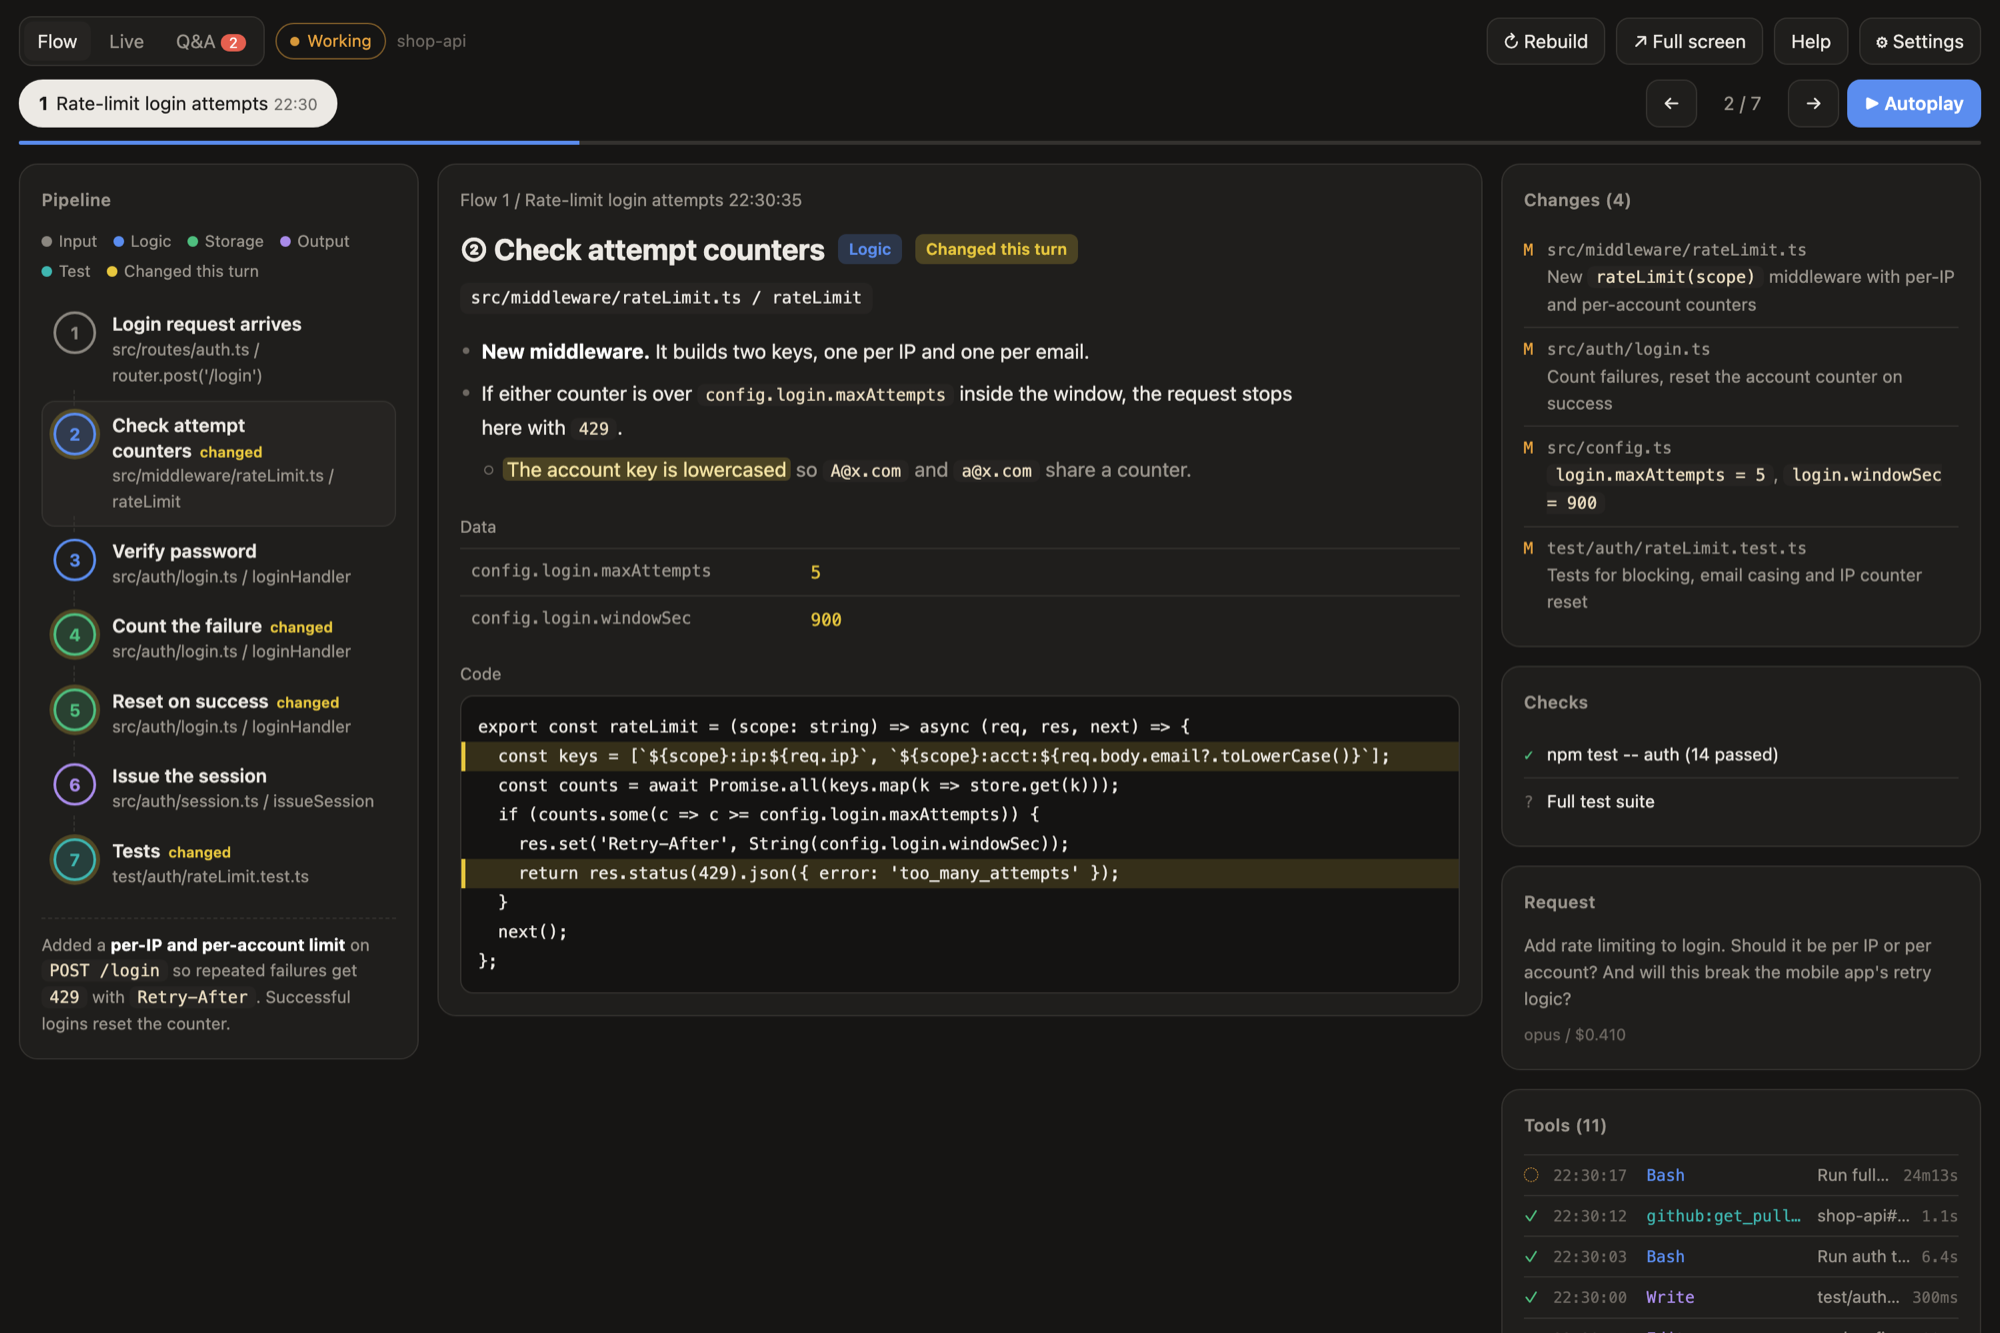
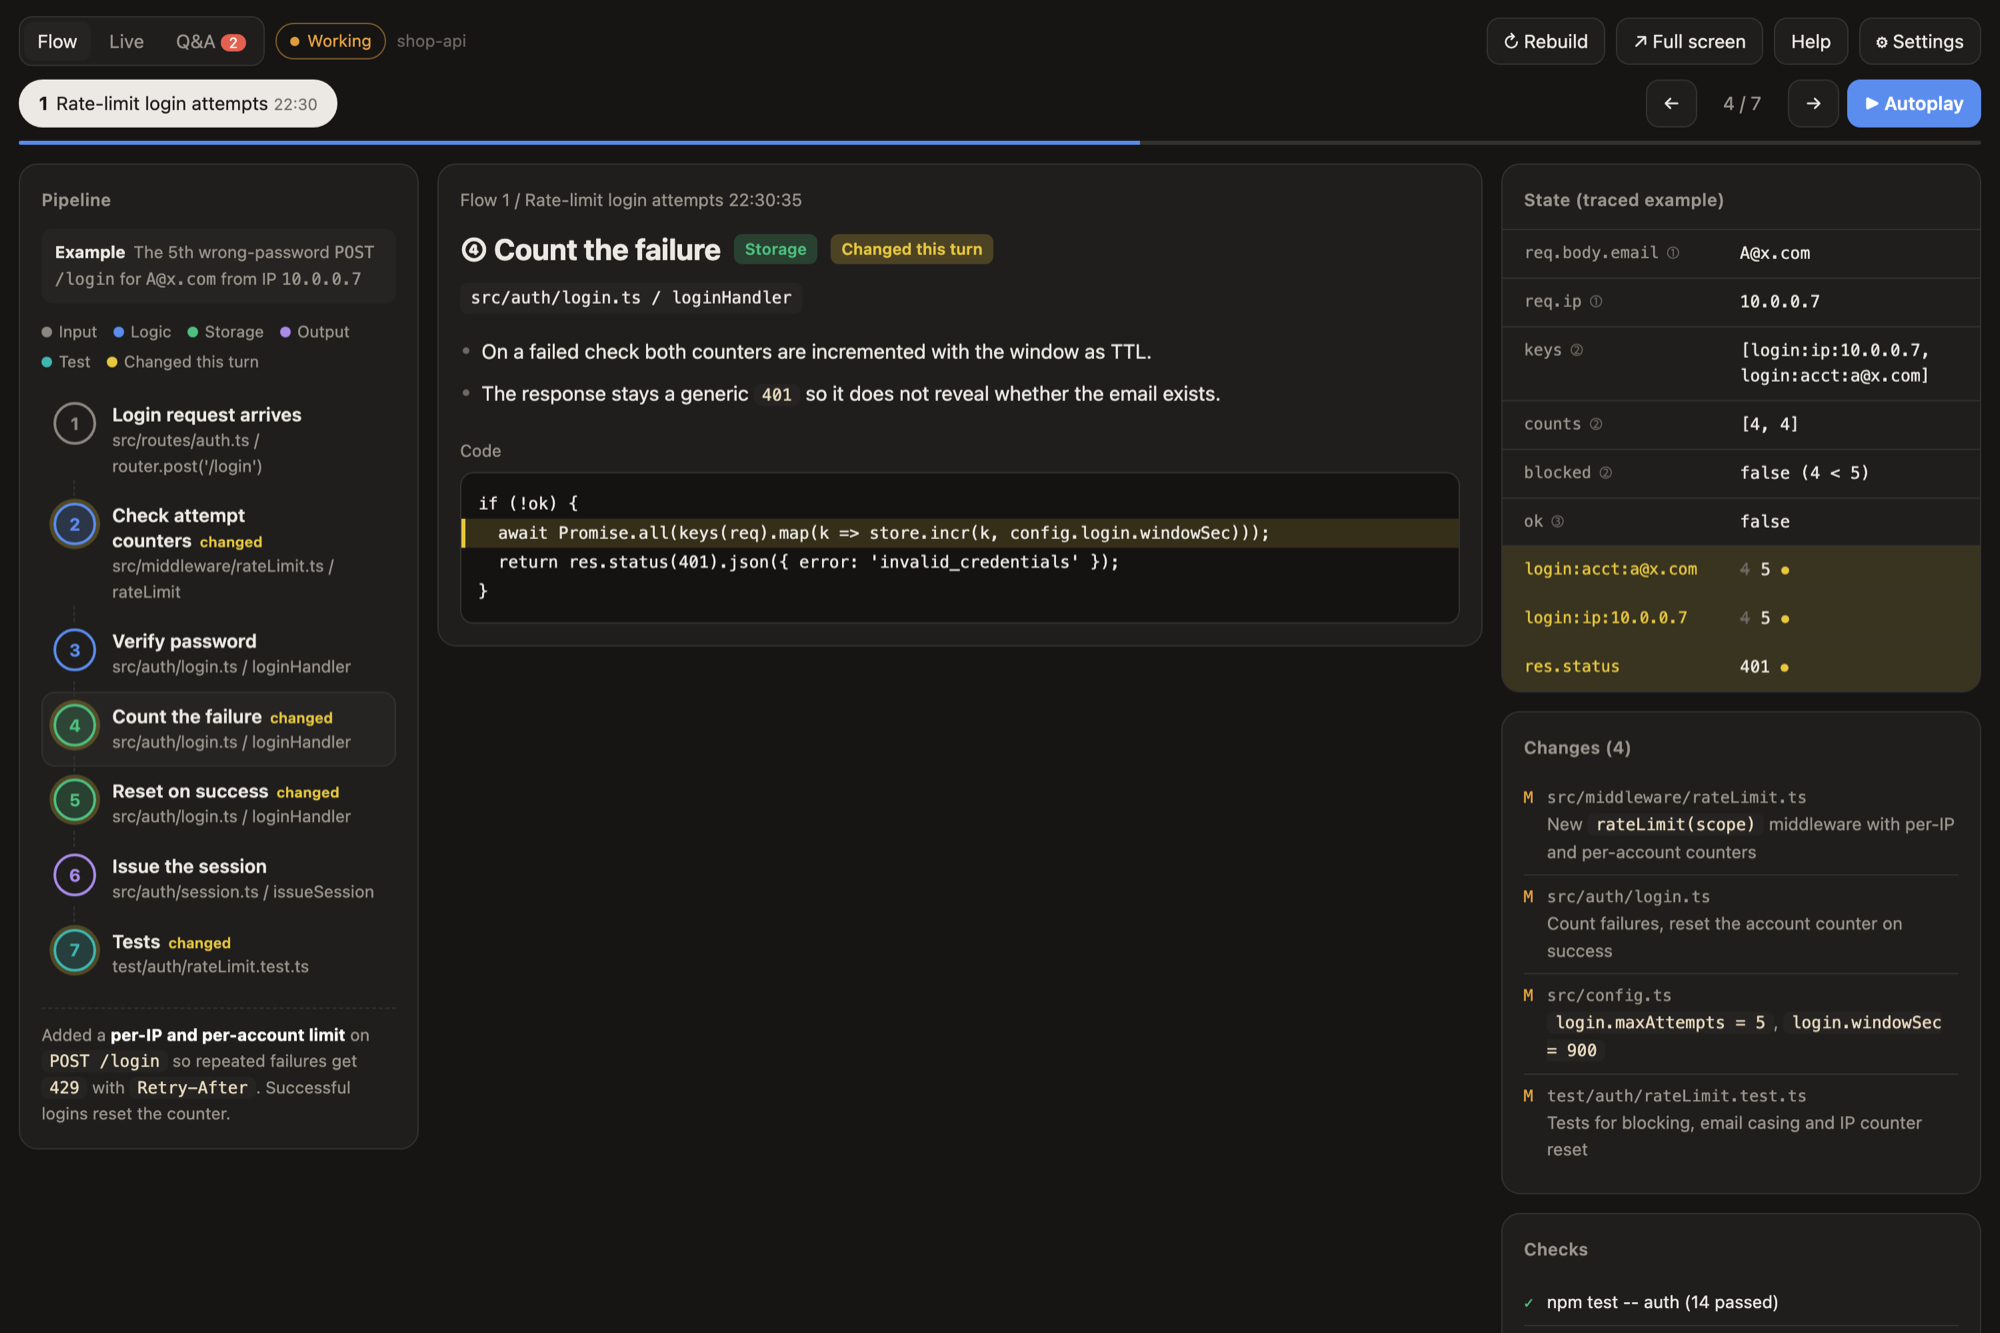
Flow: trace one concrete example through every step and show its state per step
- Schema asks for an example and per-step state values with consistent names
- State card replays values up to the current step and highlights this step's changes
- Errors from panel buttons show as a short notice instead of replacing the button label

Claude-Session: https://claude.ai/code/session_0121ovcFUkEhWW55jjw4PbtV

diff --git a/app.html b/app.html
@@ -91,6 +91,19 @@ table.data { width: 100%; border-collapse: collapse; font-size: 13px; }
 table.data td { border-top: 1px solid var(--line); padding: 7px 8px; vertical-align: top; overflow-wrap: anywhere; }
 table.data td:first-child { color: var(--muted); width: 34%; }
 .before { text-decoration: line-through; color: var(--faint); margin-right: 8px; }
+.example { background: var(--panel-2); border-radius: 8px; padding: 8px 10px; margin-bottom: 12px; font-size: 12.5px; color: var(--muted); overflow-wrap: anywhere; }
+.example b { color: var(--text); margin-right: 6px; }
+.state { padding: 0; overflow: hidden; }
+.state h3 { padding: 16px 16px 0; }
+.state table { width: 100%; border-collapse: collapse; font-size: 13px; }
+.state td { border-top: 1px solid var(--line); padding: 8px 16px; vertical-align: top; overflow-wrap: anywhere; }
+.state td:first-child { color: var(--muted); width: 1%; white-space: nowrap; font-family: var(--mono); font-size: 12px; }
+@media (max-width: 1250px) { .state td:first-child { white-space: normal; width: 40%; } }
+.state td:last-child { font-family: var(--mono); font-size: 12.5px; }
+.state tr.now { background: rgba(231,199,62,.13); }
+.state tr.now td:first-child { color: var(--hl-line); }
+.state tr.now td:last-child::after { content: ""; display: inline-block; width: 6px; height: 6px; border-radius: 50%; background: var(--hl-line); margin-left: 8px; vertical-align: middle; }
+.state .step-no { color: var(--faint); font-size: 11px; margin-left: 6px; font-family: inherit; }
 .after { color: var(--hl-line); font-family: var(--mono); }
 
 .rows { display: flex; flex-direction: column; }
@@ -160,6 +173,8 @@ kbd { border: 1px solid var(--line); border-bottom-width: 2px; border-radius: 5p
 .keys .card:hover { border-color: var(--faint); }
 .keys .path { color: var(--faint); margin: 4px 0 8px; overflow-wrap: anywhere; }
 .keys .counts { color: var(--muted); font-size: 13px; }
+.toast { position: fixed; left: 50%; bottom: 18px; transform: translateX(-50%); background: var(--panel-2); border: 1px solid var(--line); border-radius: 10px; padding: 8px 14px; font-size: 13px; z-index: 20; max-width: calc(100% - 32px); }
+.toast.err { border-color: rgba(229,96,79,.6); color: #f2b3aa; }
 .space-between { display: flex; justify-content: space-between; gap: 8px; }
 </style>
 </head>
@@ -181,6 +196,7 @@ const EDIT_TOOLS = new Set(["Edit", "Write", "MultiEdit", "NotebookEdit"]);
 const QA_PAGE = 10;
 const POLL_MS = 1000;
 const AUTOPLAY_MS = 3500;
+const TOAST_MS = 4000;
 const RECENT_TOUCH_MS = 30000;
 const MIN_HIGHLIGHT = 3;
 const TOOLS_IN_FLOW = 12;
@@ -209,7 +225,7 @@ const S = {
   state: null, flows: [], pending: null, qa: { turns: [], pending: false }, flowCache: {}, flowId: null,
   seenFlows: null, wasBusy: false, playing: null, error: null, sig: null, panes: null,
   qaPage: 1, qaOnlyOpen: false, qaArchived: false, qaRefs: [], busyIds: new Set(),
-  config: null, scope: SCOPE.GLOBAL, settingsMsg: null, returnFocus: null, polling: false,
+  config: null, scope: SCOPE.GLOBAL, settingsMsg: null, returnFocus: null, polling: false, toast: null,
 };
 const touch = () => { S.lastTouch = Date.now(); };
 const recentlyTouched = () => Date.now() - S.lastTouch < RECENT_TOUCH_MS;
@@ -323,7 +339,8 @@ function render() {
   const active = document.activeElement;
   const focusKey = active && active.dataset ? active.dataset.focus : null;
   const y = window.scrollY;
-  app.innerHTML = (KEY ? renderPanel() : renderIndex()) + renderDialog();
+  app.innerHTML = (KEY ? renderPanel() : renderIndex()) + renderDialog()
+    + (S.toast ? `<div class="toast ${S.toast.error ? "err" : ""}" role="status">${esc(S.toast.text)}</div>` : "");
   window.scrollTo(0, y);
   const again = focusKey && app.querySelector(`[data-focus="${focusKey}"]`);
   if (again) again.focus();
@@ -389,6 +406,7 @@ function renderFlow() {
     <button class="btn primary" data-act="play">${S.playing ? t("pause") : t("play")}</button></div></div>
     <div class="progress"><i style="width:${((i + 1) / steps.length) * 100}%"></i></div>`;
   const pipeline = `<div class="card"><h3>${t("pipeline")}</h3>
+    ${flow.example ? `<div class="example"><b>${t("example_label")}</b>${inline(flow.example)}</div>` : ""}
     <div class="legend">${kindsUsed.map(k => `<span style="--c:${kindColor(k)}">${kindLabel(k)}</span>`).join("")}<span style="--c:var(--hl-line)">${t("changed_this")}</span></div>
     <ol class="steps">${steps.map((s, n) => `<li><button class="step ${n === i ? "on" : ""} ${s.changed ? "changed" : ""}" data-step="${n}" style="--c:${kindColor(s.kind)}" aria-current="${n === i}">
       <span class="num">${n + 1}</span><span><span class="t">${esc(s.title)}${s.changed ? `<span class="chg">${t("changed_short")}</span>` : ""}</span><span class="l">${esc(s.location)}</span></span></button></li>`).join("")}</ol>
@@ -396,17 +414,16 @@ function renderFlow() {
   const needles = list(step.highlight).map(h => String(h).trim()).filter(h => h.length >= MIN_HIGHLIGHT);
   const code = step.code ? `<div class="label">${t("code")}</div><pre class="code">${String(step.code).replace(/\n$/, "").split("\n")
     .map(line => `<span class="${needles.some(h => line.includes(h)) ? "hl" : ""}">${esc(line) || " "}</span>`).join("")}</pre>` : "";
-  const data = list(step.data).length ? `<div class="label">${t("data")}</div><table class="data">${list(step.data).map(d => `<tr><td class="mono">${esc(d.name)}</td>
-    <td>${d.before ? `<span class="before mono">${esc(d.before)}</span>` : ""}<span class="after">${esc(d.after)}</span></td></tr>`).join("")}</table>` : "";
   const flowNumber = S.flows.length - S.flows.findIndex(f => f.id === S.flowId);
   const detail = `<div class="card">
     <div class="ctx">${t("flow_n", flowNumber)} / ${esc(flow.title)}  ${clock(rec.ts)}</div>
     <div class="h"><h2>${circled(i + 1)} ${esc(step.title)}</h2><span class="badge" style="--c:${kindColor(step.kind)}">${kindLabel(step.kind)}</span>
     ${step.changed ? `<span class="badge" style="--c:var(--hl-line)">${t("changed_this")}</span>` : ""}</div>
-    <code class="loc">${esc(step.location)}</code>${prose(step.explanation)}${data}${code}</div>`;
+    <code class="loc">${esc(step.location)}</code>${prose(step.explanation)}${code}</div>`;
   const checks = list(flow.checks);
   const cost = Number(rec.cost);
   const side = `<div class="side">
+    ${stateCard(steps, i)}
     <div class="card"><h3>${t("changes", list(flow.changes).length)}</h3><div class="rows">${list(flow.changes).map(c => `<div class="row"><span class="k M">M</span>
       <div class="v"><div class="path">${esc(c.file)}</div>${inline(c.what)}</div></div>`).join("") || `<div class="empty">${t("none")}</div>`}</div></div>
     ${checks.length ? `<div class="card"><h3>${t("checks")}</h3><div class="rows">${checks.map(c => `<div class="row">
@@ -414,6 +431,24 @@ function renderFlow() {
     <div class="card"><h3>${t("request")}</h3><div class="request">${esc(rec.prompt)}</div><div class="meta">${esc(rec.model || "")}${cost ? ` / $${cost.toFixed(3)}` : ""}</div></div>
     ${toolsCard(TOOLS_IN_FLOW)}</div>`;
   return top + `<div class="grid">${pipeline}${detail}${side}</div>`;
+}
+
+function stateAt(steps, current) {
+  const state = new Map();
+  steps.slice(0, current + 1).forEach((s, n) => list(s.data).forEach(d => {
+    if (d && d.name) state.set(String(d.name), { after: d.after, before: d.before, step: n });
+  }));
+  return state;
+}
+
+function stateCard(steps, current) {
+  if (!steps.some(s => list(s.data).length)) return "";
+  const rows = [...stateAt(steps, current)].map(([name, v]) => {
+    const now = v.step === current;
+    const before = now && v.before && v.before !== v.after ? `<span class="before">${esc(v.before)}</span>` : "";
+    return `<tr class="${now ? "now" : ""}"><td>${esc(name)}${now ? "" : `<span class="step-no">${circled(v.step + 1)}</span>`}</td><td>${before}${esc(v.after)}</td></tr>`;
+  }).join("");
+  return `<div class="card state"><h3>${t("state_title")}</h3><table>${rows || `<tr><td colspan="2" class="empty">${t("state_empty")}</td></tr>`}</table></div>`;
 }
 
 function isTurnShown(turn, items) {
@@ -566,6 +601,13 @@ async function saveSetting(update) {
   render();
 }
 
+function notify(message, error) {
+  S.toast = { text: message, error };
+  render();
+  clearTimeout(notify.timer);
+  notify.timer = setTimeout(() => { S.toast = null; render(); }, TOAST_MS);
+}
+
 function stopAutoplay() {
   if (S.playing) clearInterval(S.playing);
   S.playing = null;
@@ -587,20 +629,16 @@ async function postOverride(ref, body) {
   render();
   const r = await api("POST", `/api/${KEY}/qa/override`, { id: ref.id, ...body });
   S.busyIds.delete(ref.id);
-  if (!r.ok) S.error = r.error;
+  if (!r.ok) notify(r.error, true);
   await poll(true);
-  S.error = null;
 }
 
-async function regen(target, turn, button) {
+async function regen(target, turn) {
   touch();
   const query = `target=${target}${turn ? `&turn=${encodeURIComponent(turn)}` : ""}`;
   const r = await api("POST", `/api/${KEY}/regen?${query}`);
-  if (!r.ok) {
-    button.textContent = r.error;
-    return;
-  }
-  if (turn) button.textContent = text("checking_dots");
+  if (!r.ok) return notify(r.error, true);
+  notify(text(target === "qa" ? "qa_checking" : "flow_started"));
   await poll(true);
 }
 
@@ -620,7 +658,7 @@ document.addEventListener("click", async e => {
   if (d.resetSetting) return saveSetting({ [d.resetSetting]: null });
   touch();
   if (d.qaPage) { S.qaPage = Number(d.qaPage); render(); return window.scrollTo(0, 0); }
-  if (d.qaTurn) return regen("qa", d.qaTurn, el);
+  if (d.qaTurn) return regen("qa", d.qaTurn);
   const ref = S.qaRefs[Number(d.qaCycle ?? d.qaArchive ?? d.qaReset)];
   if (ref && d.qaCycle !== undefined) return postOverride(ref, { status: QA_CYCLE[ref.status] || QA.ANSWERED });
   if (ref && d.qaArchive !== undefined) return postOverride(ref, { archived: !ref.archived });
@@ -636,8 +674,8 @@ document.addEventListener("click", async e => {
     return render();
   }
   if (d.act === "full") return api("POST", `/api/${KEY}/open`);
-  if (d.act === "regen") return regen("flow", null, el);
-  if (d.act === "qa-regen") return regen("qa", null, el);
+  if (d.act === "regen") return regen("flow", null);
+  if (d.act === "qa-regen") return regen("qa", null);
 });
 
 document.addEventListener("change", e => {

diff --git a/flow.py b/flow.py
@@ -30,9 +30,10 @@ CHECK_STATUSES = ["pass", "fail", "unknown"]
 
 SCHEMA = {
     "type": "object",
-    "required": ["title", "summary", "steps", "changes"],
+    "required": ["title", "summary", "example", "steps", "changes"],
     "properties": {
         "title": {"type": "string", "description": "The work in 3 to 6 words"},
+        "example": {"type": "string", "description": "One concrete input traced through every step, e.g. a request with its values"},
         "summary": {"type": "string", "description": "What changed and why, 2 sentences"},
         "steps": {
             "type": "array", "minItems": 2, "maxItems": 14,
@@ -49,7 +50,7 @@ SCHEMA = {
                     "highlight": {"type": "array", "items": {"type": "string"}, "description": "Substrings of the changed lines in code"},
                     "data": {
                         "type": "array",
-                        "description": "Values or state this step changes (optional)",
+                        "description": "State of the traced example that this step reads or changes, with concrete values",
                         "items": {"type": "object", "required": ["name", "after"],
                                   "properties": {"name": {"type": "string"}, "before": {"type": "string"}, "after": {"type": "string"}}},
                     },
@@ -70,6 +71,7 @@ List the steps in the order data moves through the changed feature when it runs 
 - explanation: 2 to 5 sentences, one per line. The first line says what the step does; the following lines say what changed and why. Use lines starting with "- " for details. Mark guesses as guesses.
 - Wrap function, variable and file names and commands in `backticks`, also in summary and changes.what.
 - Put one or two key words per line in **bold** and mark caveats or changed behaviour with ==highlight==. Do not overuse either.
+- Trace the one concrete example from "example" through every step. In each step's data list the state names (variables, fields, rows, response codes) this step reads or changes and their concrete values for that example; give "before" only when the step changes the value. Use the same name for the same state in every step so it can be followed across steps.
 - code must be a real excerpt you confirmed with Read. Never invent symbols. Use kind "test" for test files.
 - checks: only tests, builds or checks that actually ran in the conversation. Empty if none.
 - Do not use the em dash (U+2014) or the middle dot (U+00B7); use a hyphen, comma or slash."""

diff --git a/README.ja.md b/README.ja.md
@@ -20,7 +20,7 @@
 
 ![Q&A タブ](docs/qa.png)
 
-**ロジックフロー**: 変更された機能を実行順に展開したステップ、実際のコードと変更行のハイライト。
+**ロジックフロー**: 変更された機能を実行順に展開したステップ、実際のコードと変更行のハイライト。具体的な例を一つ全ステップで追跡し、状態パネルが現在のステップまでの値を表示して、このステップで変わった値を強調します。
 
 ![ロジックフロータブ](docs/flow.png)
 

diff --git a/README.md b/README.md
@@ -20,7 +20,7 @@ The panel and the analysis are available in English, Korean and Japanese.
 
 ![Q&A tab](docs/qa.png)
 
-**Logic flow**: the changed feature as steps in execution order, with real code and the changed lines highlighted.
+**Logic flow**: the changed feature as steps in execution order, with real code and the changed lines highlighted. One concrete example is traced through every step; the state panel shows its values up to the current step, with this step's changes highlighted.
 
 ![Logic flow tab](docs/flow.png)
 

diff --git a/README.ko.md b/README.ko.md
@@ -20,7 +20,7 @@
 
 ![Q&A 탭](docs/qa.png)
 
-**로직 흐름**: 바뀐 기능을 실행 순서대로 펼친 단계, 실제 코드와 바뀐 줄 하이라이트.
+**로직 흐름**: 바뀐 기능을 실행 순서대로 펼친 단계, 실제 코드와 바뀐 줄 하이라이트. 구체적인 예시 하나를 모든 단계에 따라가며, 상태 패널이 현재 단계까지의 값을 보여주고 이번 단계에서 바뀐 값을 강조합니다.
 
 ![로직 흐름 탭](docs/flow.png)
 
